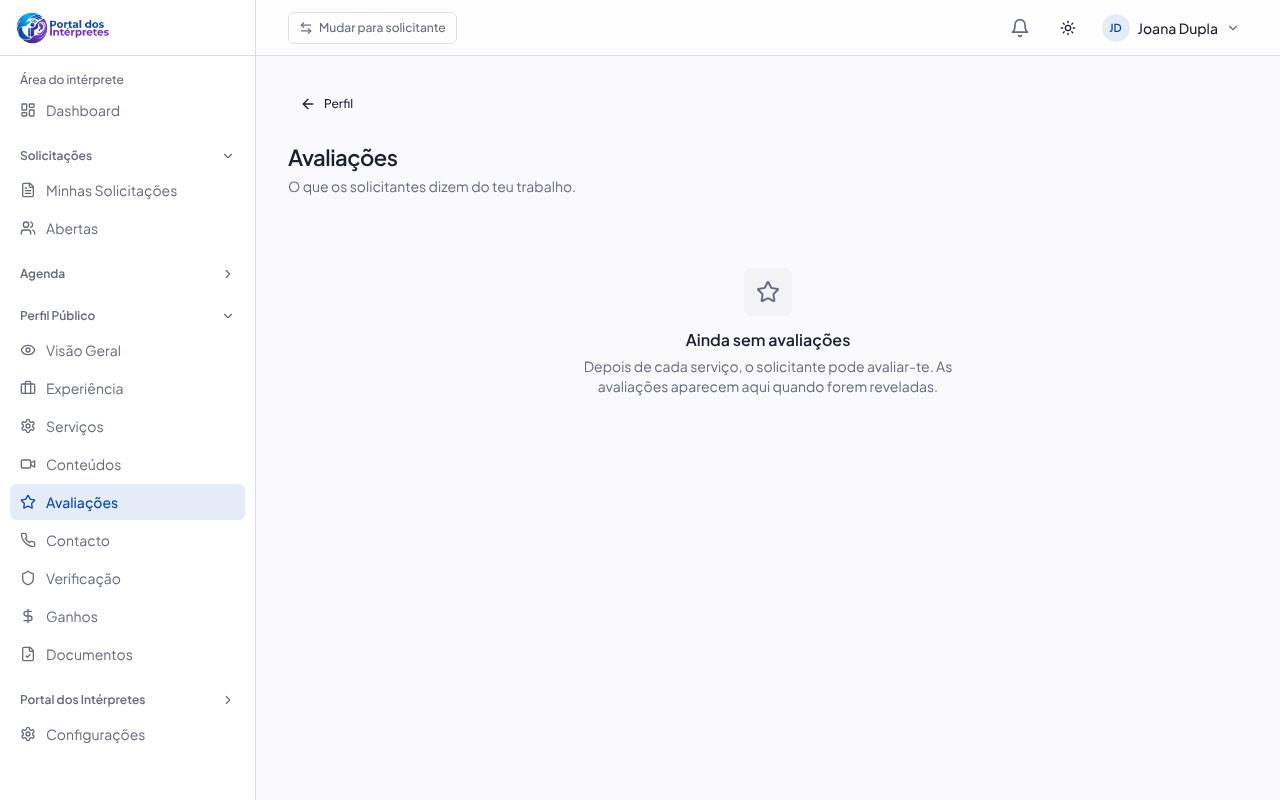
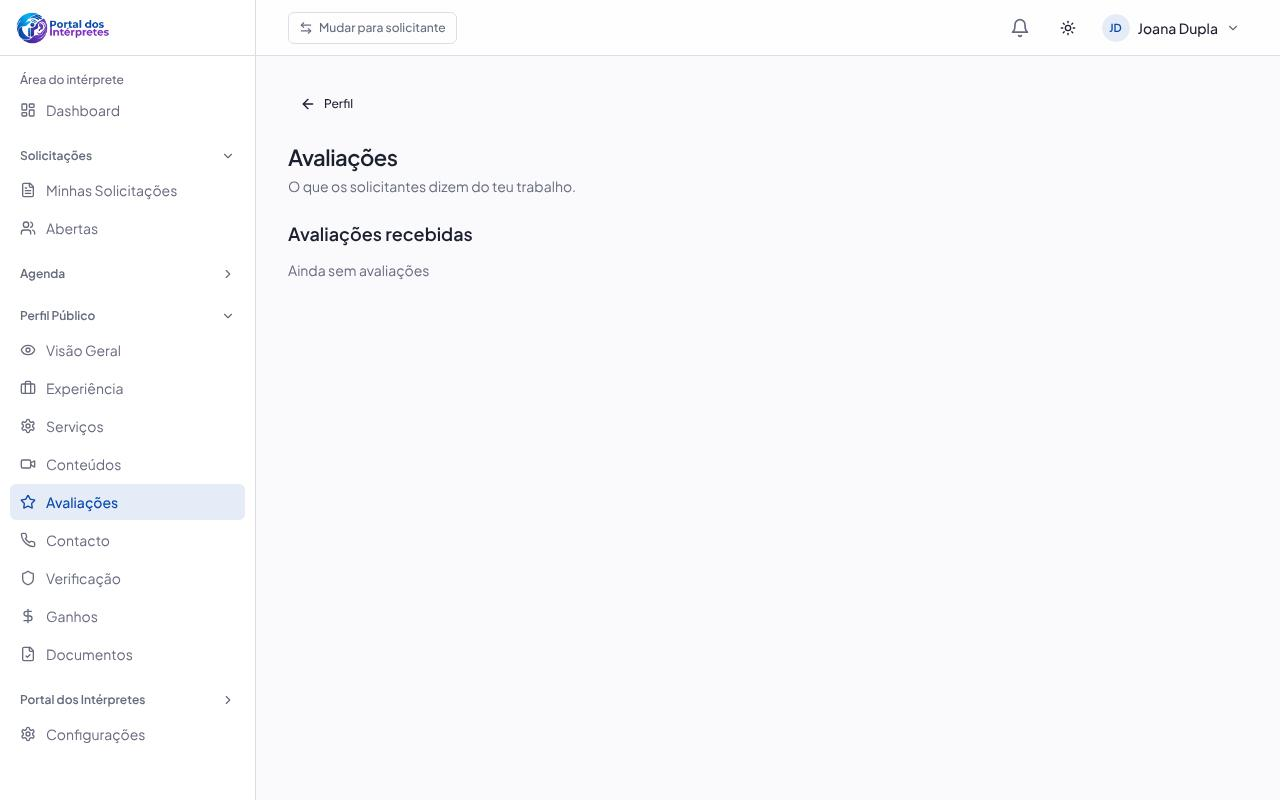
chore(release): close step H9 as v0.18.0
- profile shows the rating once; dirty-database-safe review assertions
- step report, CHANGELOG, HANDOFF, run-log; evidence of H9 and the replaced review screens

Changed region(s): [[0.4688, 0.4062, 0.75, 0.5], [0.2188, 0.2812, 0.375, 0.3438], [0.5938, 0.3438, 0.625, 0.375]]

diff --git a/packages/features/src/requests/Reviews.tsx b/packages/features/src/requests/Reviews.tsx
@@ -202,13 +202,15 @@ export function UnrevealedNote({ role }: { role: 'requester' | 'interpreter' }) 
 }
 
 /** The revealed reviews of an account as others read them: an interpreter's profile, a requester for its interpreters. */
-export function ReceivedReviews({ accountId, role, title }: { accountId: string; role: 'requester' | 'interpreter'; title: string }) {
+export function ReceivedReviews({ accountId, role, title, showRating = true }: { accountId: string; role: 'requester' | 'interpreter'; title: string; showRating?: boolean }) {
   const reviews = useReviews({ targetId: accountId, role }, accountId !== '')
   const rows = (reviews.data ?? []).filter((row) => row.revealed_at && !row.hidden)
+  // Where the average is already shown above (the profile header), the section shows only the reviews.
+  if (!showRating && rows.length === 0) return null
   return (
     <section className="space-y-3">
       <h2 className="text-lg font-semibold">{title}</h2>
-      <RatingLine accountId={accountId} role={role} />
+      {showRating && <RatingLine accountId={accountId} role={role} />}
       {rows.length > 0 && <ul className="space-y-3">{rows.slice(0, 10).map((row) => <ReviewCard key={row.id} row={row} perspective="reader" />)}</ul>}
       {rows.length > 10 && <p className="text-sm text-muted-foreground">E mais {rows.length - 10}.</p>}
     </section>

diff --git a/packages/db-types/src/database.ts b/packages/db-types/src/database.ts
@@ -1267,6 +1267,15 @@ export type Database = {
                     }
                 ];
             };
+            "my_unrevealed_reviews": {
+                Row: {
+                    "author_role": string;
+                    "pending_count": number | null;
+                };
+                ComputedFields: never;
+                Relationships: [
+                ];
+            };
             "open_requests_for_me": {
                 Row: {
                     "accepted_count": number | null;
@@ -1679,6 +1688,7 @@ export type Database = {
                     "other_name": string | null;
                     "request_code": string;
                     "request_id": string;
+                    "reveal_at": string | null;
                     "reveal_days": number | null;
                     "review_by": string | null;
                     "service_title": string;

diff --git a/packages/features/src/pages/InterpreterProfile.tsx b/packages/features/src/pages/InterpreterProfile.tsx
@@ -161,7 +161,7 @@ export function InterpreterProfileView({ details }: { details: InterpreterDetail
             </Section>
           )}
 
-          <ReceivedReviews accountId={id ?? ''} role="interpreter" title="Avaliações" />
+          <ReceivedReviews accountId={id ?? ''} role="interpreter" title="Avaliações" showRating={false} />
 
           {(videos.length > 0 || articles.length > 0) && (
             <Section title="Conteúdo">

diff --git a/docs/plan/step-reports/H9.md b/docs/plan/step-reports/H9.md
@@ -1,0 +1,49 @@
+# Relatório do passo H9 — avaliações dupla-cegas (v0.18.0, 2026-11-06)
+
+## O que mudou
+- **Base (migration 0011):** `booking.reviews`, uma por lado e atribuição.
+- **Funções (`99b-reviews.sql`):** `submit_review` (só serviços concluídos, dentro de `review_window_days`; a segunda avaliação revela as duas na mesma transacção), `reveal_reviews` (tarefa horária, ao fim de `review_reveal_days`), `hide_review` (moderador, com motivo, auditado), `review_requested` por gatilho quando a atribuição fica concluída; `auth_helper.can_view_requester_reviews` (`D-44`) e `auth_helper.clock()`; vistas `booking.review_details`, `directory.interpreter_ratings`, `booking.requester_ratings`, `booking.reviews_to_do`, `booking.my_unrevealed_reviews`. O directório (`public_listing`) lê a média das avaliações.
+- **API:** `POST /assignments/:id/reviews`, `POST /admin/reviews/:id/hide`.
+- **Ecrãs:** `/reviews` real nos dois painéis ("Por avaliar", "Que fiz", "Que recebi"); o cartão "Avalia o teu serviço com {nome}" no detalhe do pedido; as avaliações de quem pede no detalhe do intérprete; a média e as avaliações no perfil público; `/profile/reviews` com "N avaliações por revelar"; a ficha da conta no admin com "Esconder". Os mocks antigos de `/reviews` foram substituídos.
+
+## Prova
+### Testes de comportamento contra o commit anterior
+As asserções de `packages/db/tests/0011-reviews.sql`, o teste da API das avaliações e `tests/e2e/specs/h9-reviews.spec.ts` usam funções e rotas que não existem em `v0.17.0`. Falham lá por construção e passam aqui.
+
+### Asserções SQL do H9
+```
+ok - a completed service is reviewed once per side, 1 to 5 stars; both sides are asked (R-REV-01)
+ok - with one side only, the review is seen by its author and the team, nobody else (criterion 1)
+ok - the second side reveals both reviews at the same instant (criterion 2)
+ok - reviews of a requester: not for another requester, yes for an interpreter it invited (criterion 4, D-44)
+ok - an unanswered review is revealed after 14 days; the window closes after 30 days (criterion 3)
+ok - a hidden review is out of the average, audited, its author told (criterion 5, R-REV-04)
+ok - a review hidden before its reveal is never announced (review of H9)
+ok - a cancelled service cannot be reviewed (REVIEW_NOT_ALLOWED)
+```
+Na base de desenvolvimento já usada pelo Playwright falham `0001`, `0002` e `0004` (dependem do estado). O `db:verify` completo, com a base limpa, corre no push.
+
+### API e Playwright
+```
+unitários: 259 passaram; API contra a base: 50 passaram
+suite completa (antes das correcções da revisão): 130 passed, 3 failed (2 por recarregamento a quente a meio da corrida; 1 texto duplicado no perfil)
+depois das correcções: h4, panels, h8, h9 e admin 108 passed
+```
+Capturas em `docs/plan/evidence/H9/`.
+
+## Revisão independente
+10 achados (0 bloqueantes). Corrigidos 8; registados 2:
+1. **Incoerência da spec:** a revelação pelo relógio (14 dias) chega antes do fim do prazo de avaliar (30 dias). Corrigido pela opção mais segura (AD-038.2): revelada a avaliação de um lado, o prazo do outro fecha. A confirmar com a Academia.
+2. Uma avaliação escondida antes de revelada era anunciada com as estrelas. Corrigido.
+3. A mensagem de agradecimento contava 14 dias a partir do envio, e não da conclusão. Corrigido; uma avaliação enviada depois do prazo fica logo visível.
+4. A ficha da conta no admin dizia "Sem avaliações." enquanto carregava ou em erro. Corrigido.
+5. "Por avaliar" usava outro relógio. Corrigido (`auth_helper.clock()`).
+6. A média de intérpretes não listados era pública. Corrigido.
+7. Intérpretes que recusaram um convite continuam a ler as avaliações de quem os convidou. Registado (AD-038.6).
+8. Faltava "N avaliações por revelar" em `/profile/reviews`. Corrigido.
+9. Numa organização, os outros administradores não vêem as avaliações dadas ao criador. Registado (AD-038.7).
+10. "Que fiz" misturava os dois papéis. Corrigido.
+
+## Fica para depois
+- As avaliações nas denúncias do admin (`R-REV-04`, "na sequência de uma denúncia"): H16, com a fila de denúncias.
+- "Conta removida" para autores anonimizados está na vista; o teste completo chega com a anonimização (H14).

diff --git a/HANDOFF.md b/HANDOFF.md
@@ -1,15 +1,16 @@
 # HANDOFF
-- Versão: v0.17.0 (H8 fechado em 2026-11-06)
-- Próximo passo: H9 — avaliações dupla-cegas (docs/plan/specs/reviews.md; critérios 1 a 5)
+- Versão: v0.18.0 (H9 fechado em 2026-11-06)
+- Próximo passo: H10 — pagamentos: intenções, comprovativos, validação, reembolsos, repasses, recibos (docs/plan/specs/payments.md; critérios 1 a 7)
 - Remoto: https://github.com/RafaelPilartes/monorepo-portal_dos_interprete-ts (trabalho em `dev`; `main` não se toca)
+- Feito no H9: avaliações dupla-cegas, revelação pelo relógio, esconder pela equipa, médias no directório e no perfil (10 achados da revisão, 8 corrigidos, docs/plan/step-reports/H9.md).
 - Feito no H8: cancelar (pedido e participação, com tardio), marcar como feito, confirmar e confirmação automática, disputas e resolução no admin, `/schedule` real, cascata da suspensão (7 achados da revisão, 6 corrigidos, docs/plan/step-reports/H8.md).
 - Feito no H7: pedido aberto nos dois modos, candidaturas, escolha, aceitação concorrente (10 achados da revisão corrigidos ou registados, docs/plan/step-reports/H7.md).
 - Feito no H6: negociação de preço no chat (propostas, contrapropostas, aceitar e recusar; 10 achados da revisão corrigidos ou registados, docs/plan/step-reports/H6.md).
 - Feito no H5: pedidos (só o directo), convites, aceitar e recusar, estado derivado, expirações, chat, sino e `/notifications`. 13 achados da revisão corrigidos ou registados (docs/plan/step-reports/H5.md).
-- A lembrar no H9: as avaliações abrem quando a atribuição fica `completed` (H8 já o marca: `completed_via`).
+- A lembrar no H16: as avaliações na fila de denúncias (`R-REV-04`). A confirmar com a Academia: o prazo de avaliar fecha quando a avaliação do outro é revelada (AD-038.2).
 - A lembrar no H11: critério 6 do ciclo (reembolso numa disputa do gerido, `refund_decision`), a suspensão num gerido pago, o repasse ao concluir.
 - A lembrar no H7, H8 e H11: abrir os outros tipos em `booking.create_request` e no assistente; passo 4 de `refresh_request_status` (pagamento do gerido, H11). Coisas dos ecrãs adiadas: AD-034.12.
-- Auto-decisões novas: AD-034 (H5), AD-035 (H6), AD-036 (H7), AD-037 (H8)
+- Auto-decisões novas: AD-034 (H5), AD-035 (H6), AD-036 (H7), AD-037 (H8), AD-038 (H9)
 - Bloqueios: bundle do histórico antigo (AD-001); push de tags (correr scripts/release-tags.sh, AD-002)
 - Por confirmar com a Academia: fixos angolanos (AD-020); limites dos buckets (AD-022); reset-local (AD-025); email genérico (AD-027); preços reais dos serviços (AD-032.8); textos legais, margem do gerido, taxa de verificação e dados bancários (PC-02, PC-03, PC-05, PC-06)
 - Ambiente: arrancar o `dockerd` à mão se `docker info` falhar (apagar `/var/run/docker.pid` se ficou de uma sessão anterior); `pnpm db:up && pnpm db:bootstrap-admin admin@portal.local` antes do Playwright; `pnpm db:down` no fim. Não correr o push (que corre `db:verify`) ao mesmo tempo que o Playwright: os dois usam a base local.

diff --git a/docs/plan/run-log.md b/docs/plan/run-log.md
@@ -21,3 +21,4 @@
 | 2026-11-05 | H6 | v0.15.0 | 259 unitários; 5 da API de pedidos e negociação; 4 asserções SQL novas; e2e 129/129 antes das correcções, h5+h6 5/5 depois; verify.py 22/22 | 10 achados (0 bloqueantes; propostas abertas depois de recusa/expiração, preços desactualizados no ecrã, dois botões Aceitar, decimais); corrigidos ou registados (step-reports/H6.md) | AD-035 |
 | 2026-11-05 | H7 | v0.16.0 | 259 unitários; 8 da API de pedidos (com o concorrente); 6 asserções SQL novas; e2e 131/131 antes das correcções, h5+h6+h7 7/7 depois; verify.py 22/22 | 10 achados (0 bloqueantes; candidatos cancelados ao reduzir, expiração sem aviso aos candidatos, link da reunião para elegíveis, mensagem de sobreposição errada, aceitar depois do início); corrigidos ou registados (step-reports/H7.md) | AD-036 |
 | 2026-11-06 | H8 | v0.17.0 | 259 unitários; 49 da API contra a base; 9 asserções SQL novas; e2e 131/134 antes das correcções (3 testes de rota com textos de mocks), admin+panels+h5+h8 106/106 depois; verify.py 22/22 | 7 achados (1 bloqueante: cancelar depois de um serviço feito; confirmação repetida, tardio na conta errada, avisos, leitura das disputas); 6 corrigidos, 1 registado (step-reports/H8.md) | AD-037 |
+| 2026-11-06 | H9 | v0.18.0 | 259 unitários; 50 da API contra a base; 8 asserções SQL novas; e2e 130/133 antes das correcções, h4+panels+h8+h9+admin 108/108 depois; verify.py 22/22 | 10 achados (0 bloqueantes; incoerência revelação 14 dias vs prazo 30, escondida anunciada, dias do agradecimento, estados no admin, relógio, médias de não listados); 8 corrigidos, 2 registados (step-reports/H9.md) | AD-038 |

diff --git a/CHANGELOG.md b/CHANGELOG.md
@@ -2,6 +2,14 @@
 
 Uma versão por passo do `docs/plan/MASTER-PLAN.md`. Uma só versão para todo o monorepo.
 
+## 0.18.0 — 2026-11-06 — Passo H9 (avaliações)
+
+- Depois de cada serviço concluído, quem pede e o intérprete avaliam-se um ao outro, com estrelas e um comentário.
+- Cada avaliação fica escondida até as duas partes avaliarem, ou até passarem 14 dias; nessa altura, quem não avaliou já não avalia.
+- O perfil do intérprete mostra a média e as avaliações; o intérprete convidado vê as avaliações de quem pede.
+- A equipa pode esconder uma avaliação com motivo; deixa de contar para a média.
+- Relatório: `docs/plan/step-reports/H9.md`.
+
 ## 0.17.0 — 2026-11-06 — Passo H8 (ciclo do serviço)
 
 - Quem pede pode cancelar o pedido; a menos de 24 horas do início, o ecrã avisa que fica registado no perfil.
